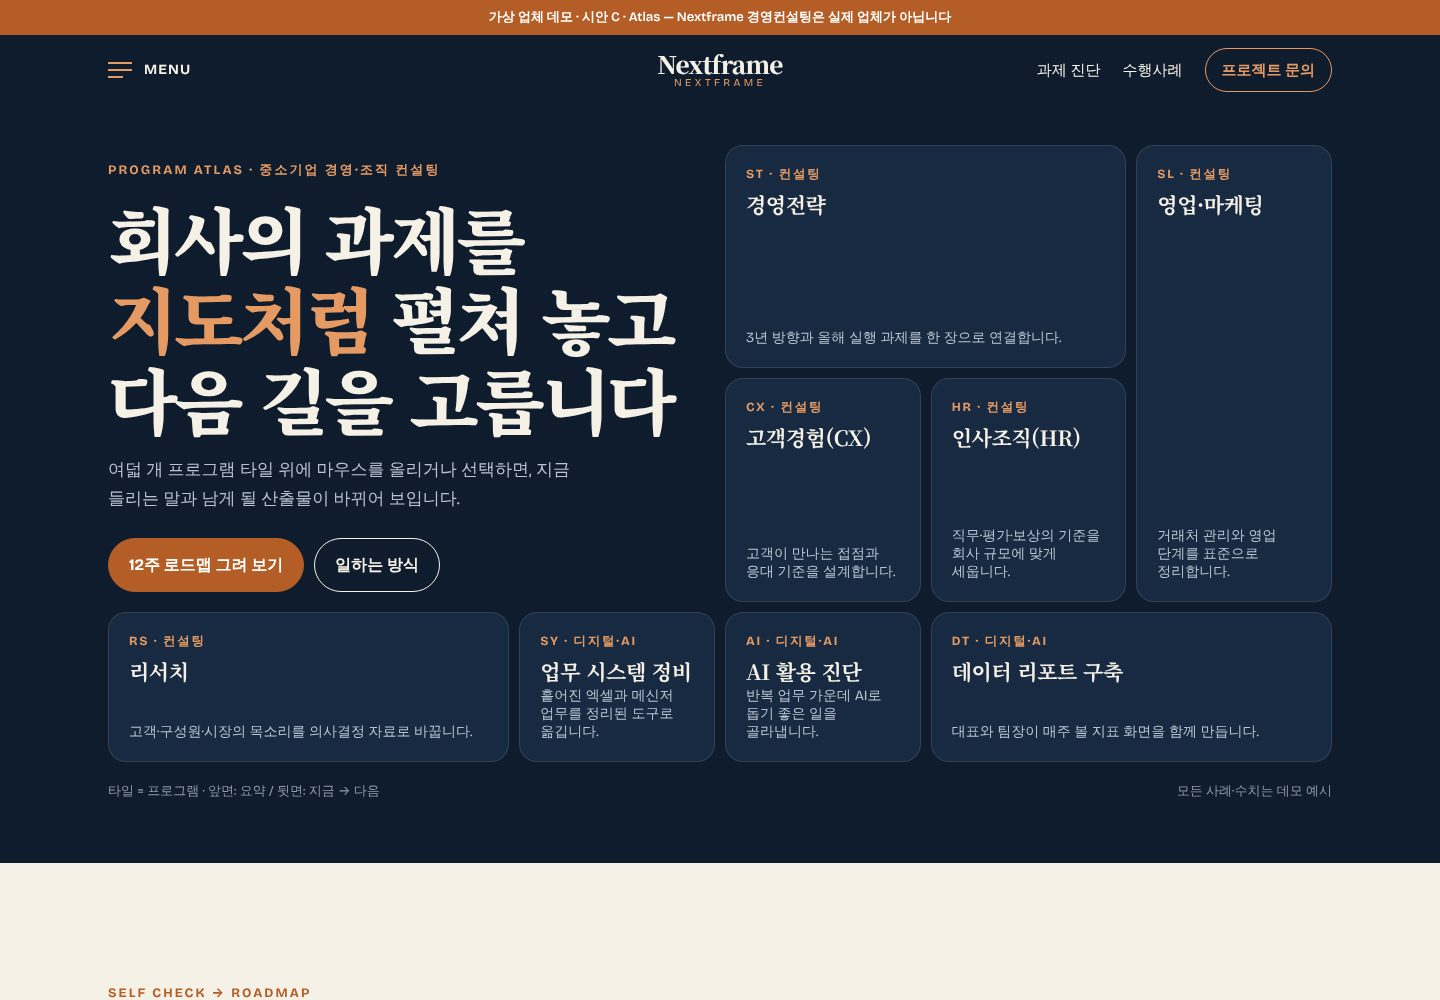
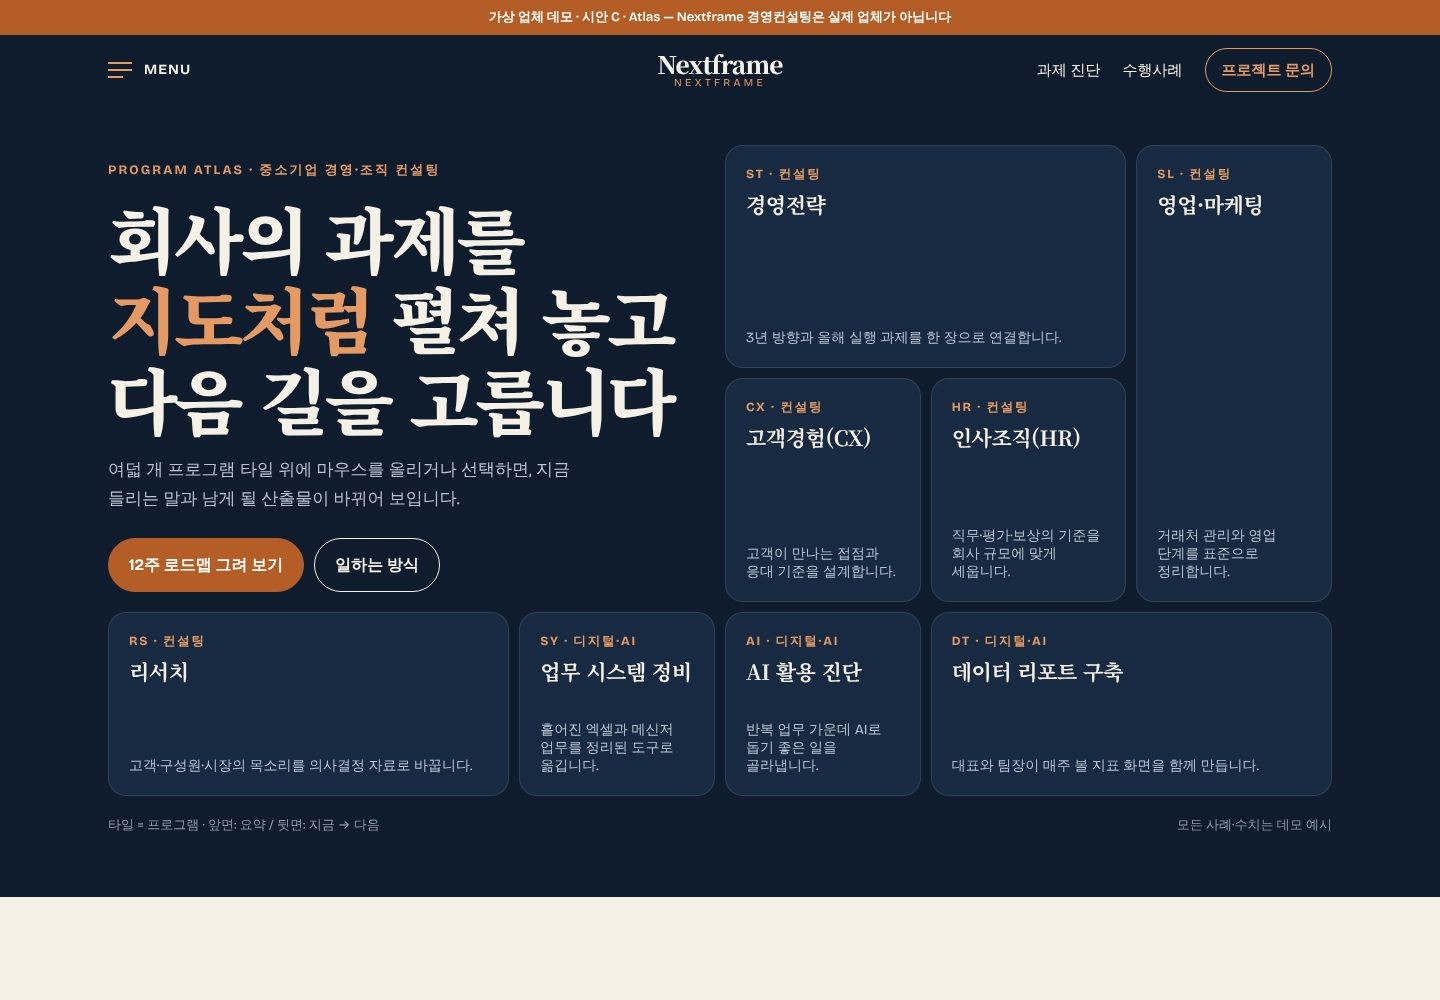
fix(pro-consulting): Atlas tile hover panel no longer overlaps titles (#69)
Claude-Session: https://claude.ai/code/session_01XPPDvbBrcGte1ifdMXesbQ

diff --git a/concepts/pro-consulting/atlas/index.html b/concepts/pro-consulting/atlas/index.html
@@ -43,13 +43,17 @@ header{position:sticky;top:0;z-index:40;background:var(--navy);color:var(--ivory
 .d2 .one{grid-column:1/-1;font-family:var(--serif);font-size:22px;color:rgba(246,241,230,.8)}
 /* hero atlas */
 .hero{background:var(--navy);color:var(--ivory);padding:40px 0 60px}
-.atlas{display:grid;grid-template-columns:repeat(6,minmax(0,1fr));grid-auto-rows:minmax(150px,auto);gap:10px}
+.atlas{display:grid;grid-template-columns:repeat(6,minmax(0,1fr));grid-auto-rows:minmax(184px,auto);gap:10px}
 .tile{position:relative;border-radius:18px;background:var(--navy2);border:1px solid rgba(246,241,230,.12);padding:20px;text-align:left;display:flex;flex-direction:column;overflow:hidden;min-height:150px;transition:background .3s,border-color .3s}
 .tile .cd{font-size:12.5px;letter-spacing:.14em;color:var(--copper-l);font-weight:700}
 .tile h3{font-family:var(--serif);font-weight:700;font-size:21px;margin-top:6px;letter-spacing:-.02em}
 .tile .face{margin-top:auto;font-size:14px;color:#b9c3d0;transition:opacity .3s}
-.tile .back{position:absolute;inset:auto 20px 18px 20px;opacity:0;transform:translateY(10px);transition:opacity .3s,transform .3s;font-size:14px}
-.tile .back b{display:block;font-size:11.5px;letter-spacing:.14em;color:var(--copper-l)}
+.tile .back{position:absolute;inset:0;z-index:2;padding:18px 20px;display:flex;flex-direction:column;justify-content:center;gap:10px;background:var(--ivory);color:var(--ink);border-radius:inherit;opacity:0;transform:translateY(8px);transition:opacity .3s,transform .3s;pointer-events:none}
+.tile .back .bt{font-size:12px;font-weight:700;letter-spacing:.08em;color:var(--copper);border-bottom:1px solid var(--line);padding-bottom:8px}
+.tile .back .bk{display:grid;gap:2px}.tile .back b{font-size:11px;letter-spacing:.16em;color:var(--copper)}
+.tile .back .q{display:-webkit-box;-webkit-line-clamp:2;-webkit-box-orient:vertical;overflow:hidden;font-size:14px;line-height:1.45}
+.tile .back .bk:last-child .q{-webkit-line-clamp:3}
+.t-sales .back .q{-webkit-line-clamp:4}
 .tile:hover,.tile:focus-visible{background:var(--ivory);color:var(--ink);border-color:var(--ivory)}
 .tile:hover .face,.tile:focus-visible .face{opacity:0}.tile:hover .back,.tile:focus-visible .back{opacity:1;transform:none}
 .tile:hover .cd,.tile:focus-visible .cd{color:var(--copper)}
@@ -154,7 +158,7 @@ footer{background:#0a1422;color:#8f9bab;font-size:13px;padding:40px 0 30px}
 @media (max-width:640px){
  .hd{grid-template-columns:auto 1fr auto}.logo{text-align:left;padding-left:14px}.logo small{letter-spacing:.2em}.quick a.c{padding:6px 12px;font-size:13px}.menu-btn em{display:none}
  .atlas{grid-template-columns:1fr}.tile{min-height:130px}
- .tile .back{position:static;opacity:1;transform:none;margin-top:10px;font-size:13.5px;color:#d7dee8}.tile .face{display:none}.tile:hover .back,.tile:focus-visible .back{color:var(--ink)}
+ .tile .back{position:static;opacity:1;transform:none;margin-top:10px;padding:0;background:none;color:#d7dee8;gap:8px}.tile .back .bt{display:none}.tile .back b{color:var(--copper-l)}.tile .back .q{-webkit-line-clamp:unset;font-size:13.5px}.tile .face{display:none}.tile:hover .back,.tile:focus-visible .back{color:var(--ink)}.tile:hover .back b,.tile:focus-visible .back b{color:var(--copper)}
  .way{grid-template-columns:1fr}.bento{grid-template-columns:1fr}.bento a.in{grid-column:auto;grid-row:auto!important}.fmap{grid-template-columns:1fr 1fr}
  .weeks,.lane{grid-template-columns:76px repeat(12,1fr)}.lane .nm{font-size:12px}.lane .bar{font-size:0;padding:0}.weeks span:not(:first-child):nth-child(odd){visibility:hidden}
 }
@@ -271,7 +275,7 @@ document.addEventListener('click',e=>{const a=e.target.closest('[data-go]');if(!
 /* footer sitemap */
 $('#fmap').innerHTML=D.menu.map(m=>'<div><h4>'+m.label+'</h4>'+(m.groups.length?m.groups.map(g=>(g.label?'<small>'+g.label+'</small>':'')+g.items.map(it=>'<a href="#" data-go="'+it[0]+'">'+it[1]+'</a>').join('')).join(''):'<a href="#" data-go="cases">사례 보기</a>')+'</div>').join('');
 /* atlas tiles */
-$('#atlas').insertAdjacentHTML('beforeend',D.services.map(s=>'<button class="tile t-'+s.id+'" id="t-'+s.id+'" aria-describedby="tb-'+s.id+'"><span class="cd">'+s.code+' · '+s.group+'</span><h3>'+s.title+'</h3><span class="face">'+s.summary+'</span><span class="back" id="tb-'+s.id+'"><b>NOW</b>“'+s.pains[0]+'”<b style="margin-top:8px">NEXT</b>'+s.outputs.join(' · ')+'</span></button>').join(''));
+$('#atlas').insertAdjacentHTML('beforeend',D.services.map(s=>'<button class="tile t-'+s.id+'" id="t-'+s.id+'" aria-describedby="tb-'+s.id+'"><span class="cd">'+s.code+' · '+s.group+'</span><h3>'+s.title+'</h3><span class="face">'+s.summary+'</span><span class="back" id="tb-'+s.id+'"><span class="bt">'+s.code+' · '+s.title+'</span><span class="bk"><b>NOW</b><span class="q">“'+s.pains[0]+'”</span></span><span class="bk"><b>NEXT</b><span class="q">'+s.outputs.join(' · ')+'</span></span></span></button>').join(''));
 $('#atlas').addEventListener('click',e=>{const t=e.target.closest('.tile');if(!t)return;const id=t.id.slice(2);const q=D.diagnosis.findIndex(x=>x.area===id);if(q>-1){vals[q]=Math.max(vals[q],3);sync()}$('#roadmap').scrollIntoView({behavior:reduce?'auto':'smooth'})});
 /* roadmap */
 const Q=D.diagnosis,vals=Q.map(()=>0),lbl=['잘 되고 있다','대체로 괜찮다','가끔 막힌다','자주 막힌다','늘 막힌다'];

diff --git a/docs/history.md b/docs/history.md
@@ -96,3 +96,4 @@
 - 2026-10-11: Sidebook 회사 소개 페이지 왼쪽 메뉴 위치 표시 수정(컨설턴트 영역에서 '인증과 기록'이 켜지던 문제). 스크롤 위치 기준 판정·페이지 끝 처리·'지금 보는 곳' 표시 추가.
 - 2026-10-11: pro-consulting 시안 3개를 완성 사이트로 등록(portfolio kind=site, sites.json 3변형, backlog done), Nextframe 화면으로 썸네일 재촬영.
 - 2026-10-11: 회사 소개 연혁 연도 버튼 수정. 2014를 눌러도 2019가 선택되던 문제(화면 가운데 기준 판정·스크롤 여백 불일치)를 고정 연도 바로 아래 기준선 판정으로 바꾸고, 클릭 시 해당 연혁이 연도 바 바로 아래에 오도록 이동.
+- 2026-10-12: Atlas 프로그램 타일 마우스 오버 시 뒷면 문구가 제목과 겹치던 문제 수정. 뒷면을 타일 전체를 덮는 패널(코드·제목, NOW 2줄, NEXT 3줄 말줄임)로 바꾸고 타일 높이 184px로 확대.
